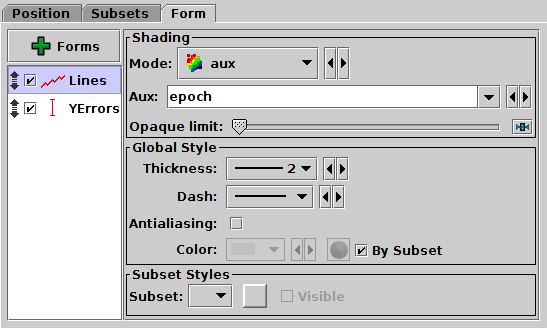
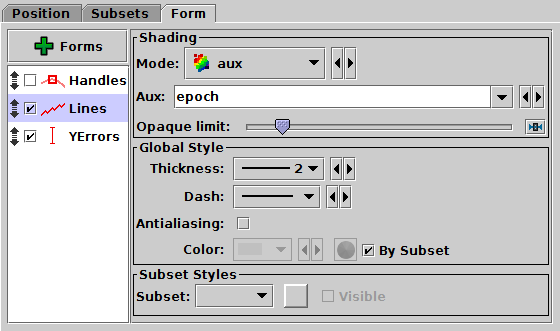
topcat: add Handles form by default to XYArray control
The XYArray layer control now provides an inactive Handles
form by default as well as the Lines form.
The intention is to act as a user hint that using this could be
a good idea.

Some fixes/updates to the user documentation for XYArrays and handles
as well.

Changed region(s): [[0.0, 0.0, 0.9945, 0.9756]]

diff --git a/topcat/src/main/uk/ac/starlink/topcat/plot2/MultiFormLayerControl.java b/topcat/src/main/uk/ac/starlink/topcat/plot2/MultiFormLayerControl.java
@@ -31,6 +31,7 @@ import uk.ac.starlink.ttools.plot2.Plotter;
 import uk.ac.starlink.ttools.plot2.config.ConfigKey;
 import uk.ac.starlink.ttools.plot2.config.Specifier;
 import uk.ac.starlink.ttools.plot2.data.Coord;
+import uk.ac.starlink.ttools.plot2.layer.HandleArrayForm;
 import uk.ac.starlink.ttools.plot2.layer.ModePlotter;
 
 /**
@@ -204,8 +205,24 @@ public class MultiFormLayerControl extends FormLayerControl {
             }
         }
 
-        /* Special case hacks for additional default forms. */
+        /* Special case hacks for additional default forms.
+         * Currently there's only one, an inactive HandleForm in the case of
+         * the XYArray control.  If more special casing is required in future,
+         * think about generalising this. */
         List<Action> extraDfltActs = new ArrayList<>();
+        for ( ModePlotter.Form form : modePlotterMap_.keySet() ) {
+            if ( form instanceof HandleArrayForm ) {
+                List<ModePlotter<?>> modePlotters = modePlotterMap_.get( form );
+                extraDfltActs.add( new ModeFormAction( modePlotters, form ) {
+                    @Override
+                    public void actionPerformed( ActionEvent evt ) {
+                        Control control = createControl();
+                        formStack_.addControl( control );
+                        formStack_.setChecked( control, false );
+                    }
+                } );
+            }
+        }
 
         /* Prepare plotters added to control by default. */
         dfltFormActs_ = new ArrayList<>();
